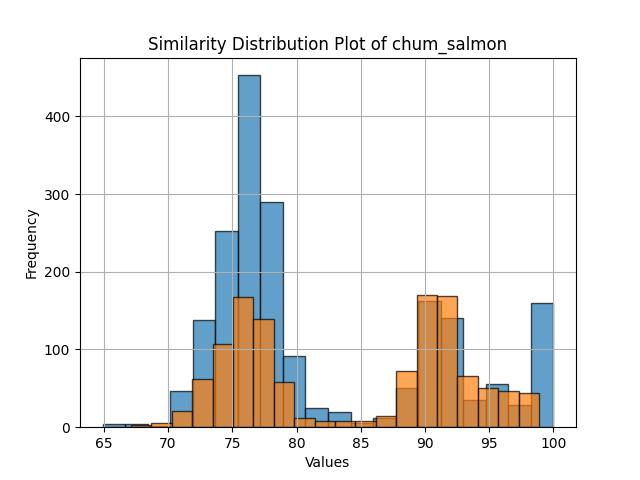
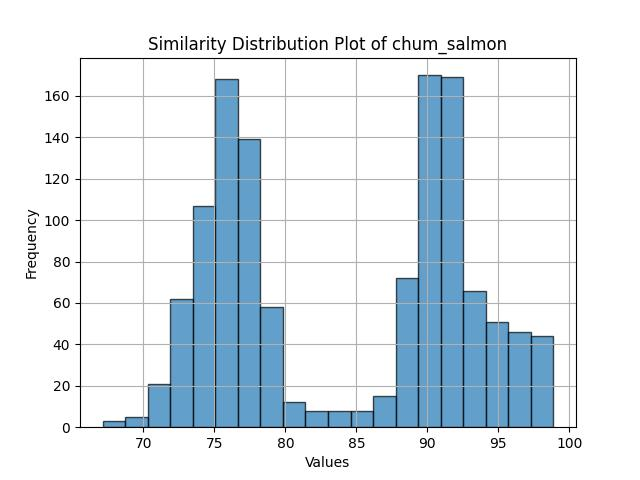
Fix the overlap in the plot.

diff --git a/src/calculate_simi.py b/src/calculate_simi.py
@@ -91,7 +91,8 @@ def draw_sim_plot(species, block_sim_data, plot_saving_file):
     data = []
     for block in block_sim_data:
         data.append(float(format(block[3], ".2f")))
-
+    
+    plt.clf()
     plt.hist(data, bins=20, edgecolor='black', alpha=0.7)
     plt.xlabel('Values')
     plt.ylabel('Frequency')
